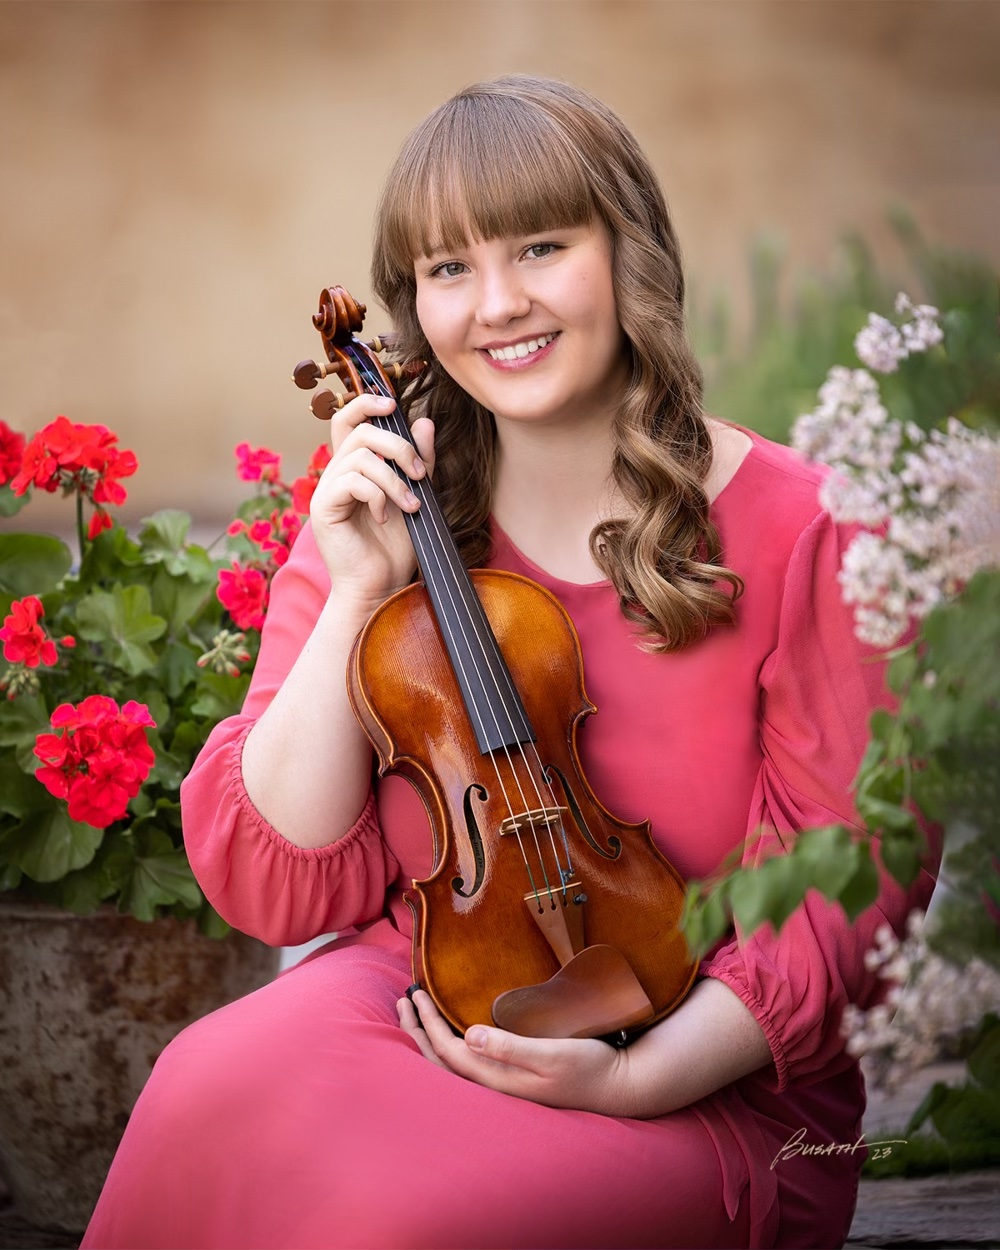
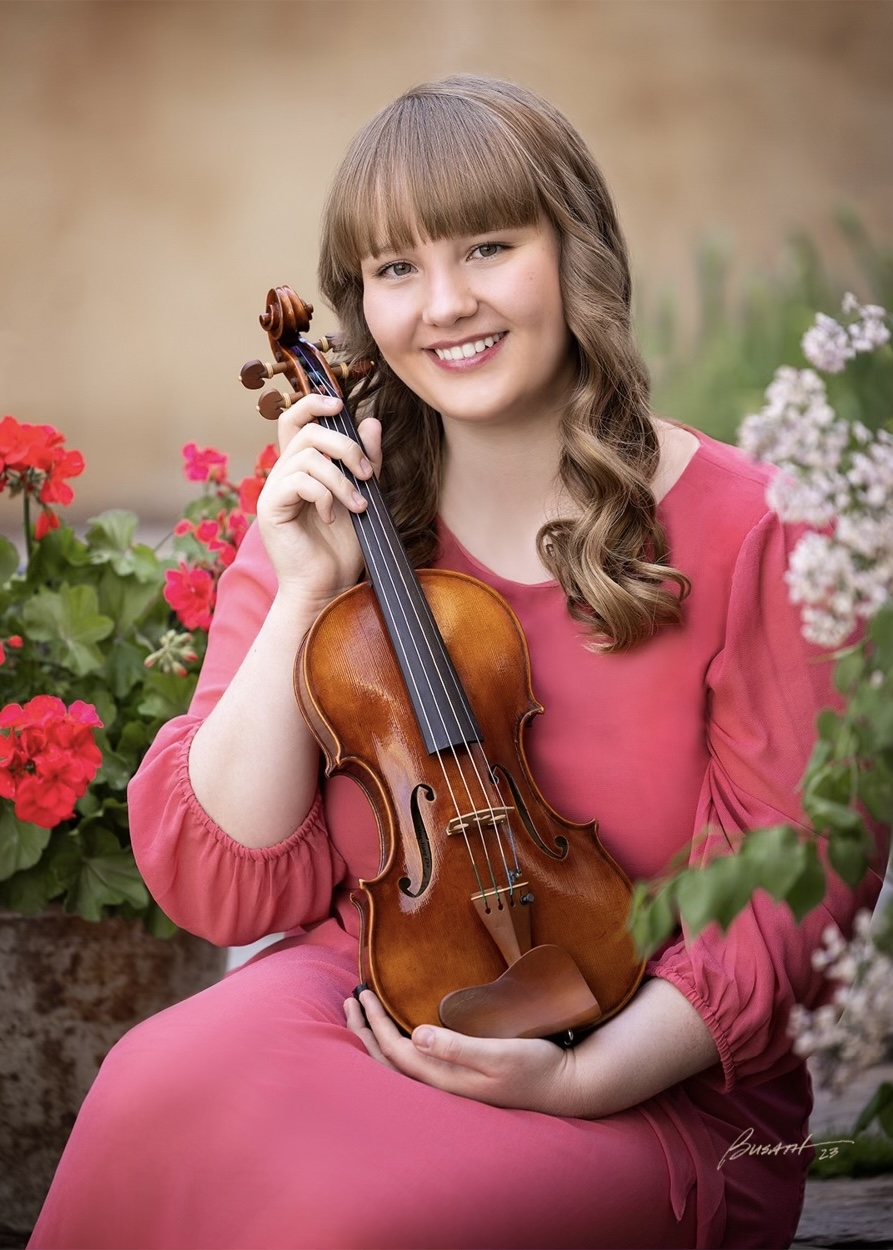
more photos!

diff --git a/index.html b/index.html
@@ -8,8 +8,10 @@
 <center><h1><p {
         font-family: Brush Script MT, cursive;
       }style="font-size:50px;">Claire Mayfield</h1>
-Composer, Sound Designer, and Violinist<center>
-	
+<i>Composer, Sound Designer, and Violinist<i> <center>
+	<br>
+	<br>
+	<br>
 	<style>
 	      body {
 	        font-family: Optima, sans-serif;
@@ -24,11 +26,10 @@ Composer, Sound Designer, and Violinist<center>
   <a href="https://claire-mayfield.github.io/Photos/">Photos</a>
   <a href="https://claire-mayfield.github.io/Composition/">Composition</a>
 </nav>
-
-<img src="Conducting_01_ZoomOut.jpg">
-
-</body>
-</html>
+	<br>
+	<br>
+	<br>
+<img src="Conducting_01_ZoomOut.jpg" width="625" height="500">
 
   
   

diff --git a/Photos/index.html b/Photos/index.html
@@ -10,15 +10,21 @@
 	
 <p style="font-size:30px;">Photos</p>
 
-<img src="Audire.jpg">
+<img src="Audire.jpg" width="700" height="500">
 <p>Audire Concert, Spring 2025<p>
 <br>
 <br>
 <br>
 <br>
 
+<img src="Recording_01.jpg" width="700" height="500">
+<p>Berklee Recording Session, Spring 2025<p>
+<br>
+<br>
+<br>
+<br>
 
-<img src="Violin_Upper_Front.jpg">
+<img src="Violin_Upper_Front.jpg" width="500" height="700">
 <p>Solo Recital, Summer 2024<p>
 <br>
 <br>
@@ -26,7 +32,7 @@
 <br>
 
 
-<img src="Violin_Senior.jpg">
+<img src="Violin_Senior.jpg" width="500" height="700">
 <p>Senior Pictures, Spring 2023<p><center>
 <br>
 <br>
